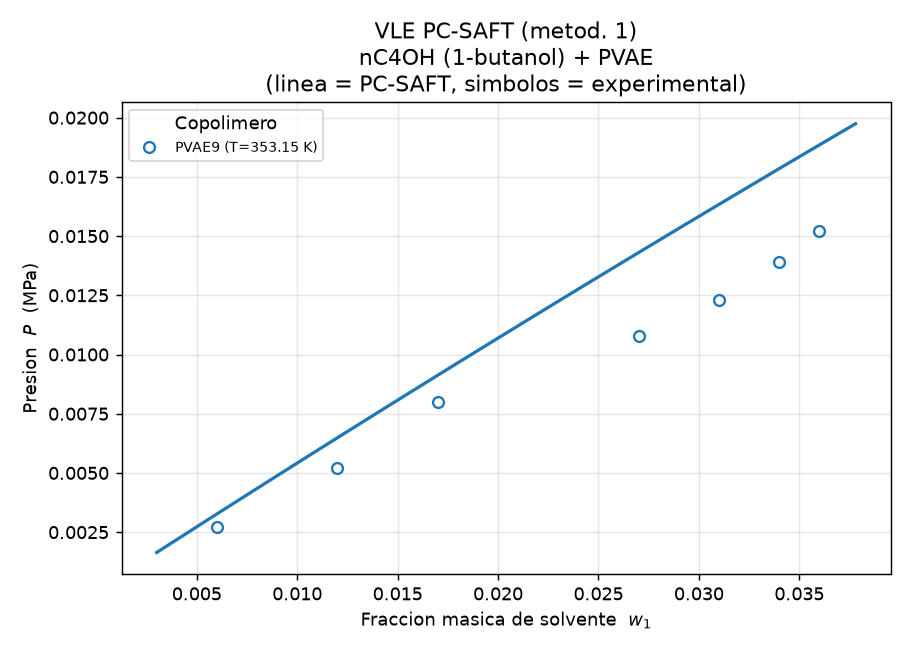
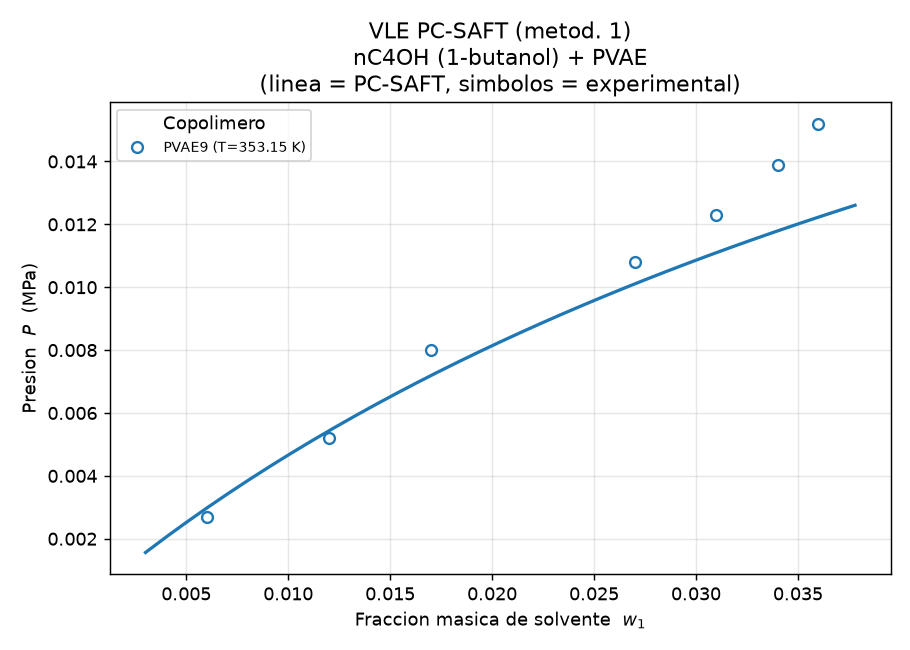
Revision final: anade termino de asociacion (Ecs.36-38) y audita todo
- Implementa a_assoc esquema 2B para nC4OH con params del paper (Tabla 4b):
  Psat butanol puro de 565% a 3%; nC4OH+PVAE9 de 25% a 11%.
- Valida Psat de los 8 solventes puros (solo CHL/cC6/BZN/TOL/nC5/nC6 OK;
  ACE 94% y nC4OH 565% confirman falta de fisica dipolar/asociacion).
- Barrido de kij: para cC6+PVAE NINGUN kij reproduce el paper (estructural).
- Re-verifica datos de tolueno vs imagen del PDF de Gupta: CORRECTOS (no eran
  errata; TOL+PSBR23 es regimen ultra-diluido con MW=720000).
- Sensibilidad MW y descomposicion de terminos: todo sano, sin artefactos.
- Regenera figuras de nC4OH con el termino de asociacion activo.

diff --git a/correr_todos.py b/correr_todos.py
@@ -66,7 +66,9 @@ DATA = {
  ("cC6","PVAE25",353.15):[(0.011,0.0075),(0.037,0.0144),(0.074,0.0265),(0.140,0.0397),(0.228,0.0549),(0.238,0.0555),(0.277,0.0607),(0.300,0.0641),(0.369,0.0704)],
  ("cC6","PVAE50",353.15):[(0.005,0.0075),(0.025,0.0144),(0.046,0.0265),(0.104,0.0397),(0.159,0.0549),(0.170,0.0555),(0.205,0.0607),(0.225,0.0641),(0.287,0.0704)],
  ("cC6","PVAE70",353.15):[(0.004,0.0075),(0.026,0.0144),(0.042,0.0265),(0.081,0.0397),(0.123,0.0549),(0.133,0.0555),(0.156,0.0607),(0.191,0.0641),(0.242,0.0704)],
+ # TOL+PSBR5 (Gupta, formato (P,w1)): P = {0.93,2.08,3.04,4.36,4.83,5.48} kPa. VERIFICADO vs imagen PDF.
  ("TOL","PSBR5",308.15):[(0.043,0.00093),(0.099,0.00208),(0.184,0.00304),(0.319,0.00436),(0.416,0.00483),(0.513,0.00548)],
+ # TOL+PSBR23 (Gupta, formato (P,w1)): P = {0.90,2.08,3.04,4.36,4.83,5.48} kPa. VERIFICADO vs imagen PDF.
  ("TOL","PSBR23",308.15):[(0.029,0.00090),(0.031,0.00208),(0.032,0.00304),(0.037,0.00436),(0.037,0.00483),(0.038,0.00548)],
  ("nC6","PSBR23",343.15):[(0.014,0.0139),(0.043,0.0273),(0.063,0.0385),(0.110,0.0488),(0.162,0.0615),(0.262,0.0752)],
  ("nC6","PSBR45",343.15):[(0.016,0.0139),(0.038,0.0273),(0.061,0.0385),(0.103,0.0488),(0.155,0.0615),(0.249,0.0752)],
@@ -75,11 +77,22 @@ DATA = {
 }
 
 
+# Parametros de asociacion (Tabla 4b): solo el nC4OH es auto-asociante.
+ASOC = {
+    "nC4OH": (0.008752, 2489.23),   # (kAB, epsAB/k [K])
+}
+
+
 def dp_system(solv_key, cop_key, T, pts, kij):
     ms = SOLV[solv_key]; mc = COP[cop_key]
     pv.SOLVENTE = {"nombre":solv_key,"MW":ms[3],"m_MW":ms[0],"sigma":ms[1],"eps_k":ms[2]}
     pv.COPOLIMERO = {"nombre":cop_key,"MW":float(mc[3]),"m_MW":mc[0],"sigma":mc[1],"eps_k":mc[2]}
-    solv = pv.construir_solvente(); cop = pv.construir_copolimero()
+    if solv_key in ASOC:
+        kAB, epsAB = ASOC[solv_key]
+        solv = pv.Componente(solv_key, ms[0]*ms[3], ms[1], ms[2], kAB, epsAB)
+    else:
+        solv = pv.construir_solvente()
+    cop = pv.construir_copolimero()
     ml = pv.PCSAFT([solv,cop],[[0,kij],[kij,0]]); mv = pv.PCSAFT([solv],[[0.0]])
     s=0.0; n=0
     for w1,Pexp in pts:
@@ -96,11 +109,14 @@ def dp_system(solv_key, cop_key, T, pts, kij):
 if __name__ == "__main__":
     print("%-7s %-9s %8s %8s %10s %8s" % ("Solv","Copol","T[K]","kij","dP_calc%","dP_paper%"))
     print("-"*56)
-    tot_c=0.0; tot_n=0
+    suma_sist=0.0; nsist=0
     for (solv,cop,T),pts in DATA.items():
         kij,dp_paper = KIJ_DP[(solv,cop)]
         dp_calc,n = dp_system(solv,cop,T,pts,kij)
-        tot_c += dp_calc*n; tot_n += n
+        if dp_calc is not None:
+            suma_sist += dp_calc; nsist += 1
         print("%-7s %-9s %8.2f %8.4f %9.2f %8.2f" % (solv,cop,T,kij,dp_calc,dp_paper))
     print("-"*56)
+    print("Desviacion global (promedio por sistema) de nuestro motor: %.2f%% sobre %d sistemas"
+          % (suma_sist/nsist, nsist))
     print("Desviacion global PC-SAFT reportada por el paper (metod.1): 4.41%")

diff --git a/pcsaft_vle.py b/pcsaft_vle.py
@@ -126,11 +126,14 @@ KB = 1.380649e-23        # J/K (constante de Boltzmann) -- CONSTANTE FIJA, NO ED
 #  (solvente o copolimero-pseudo-monomero). Caracterizado por m, sigma, eps/k.
 # -----------------------------------------------------------------------------
 class Componente:
-    def __init__(self, nombre, m, sigma, eps_k):
+    def __init__(self, nombre, m, sigma, eps_k, kAB=0.0, epsAB=0.0):
         self.nombre = nombre
         self.m = m            # numero de segmentos por molecula
         self.sigma = sigma    # Angstrom
         self.eps_k = eps_k    # K
+        self.kAB = kAB        # volumen de asociacion (Tabla 4b) -- 0 si no asocia
+        self.epsAB = epsAB    # energia de asociacion eps_AB/k [K] (Tabla 4b)
+        self.asocia = (kAB > 0.0 and epsAB > 0.0)   # esquema 2B (alcohol)
 
 
 # -----------------------------------------------------------------------------
@@ -237,9 +240,40 @@ class PCSAFT:
         a2 = -math.pi * rho * mb * C1 * I2 * self._m2es(x, T, 2)  # Ec. 29
         return a1 + a2
 
+    # ---- asociacion (Ecs. 36-38) ----
+    #   Esquema 2B (dos sitios A,B por molecula; A solo asocia con B).
+    #   Solo contribuyen los componentes auto-asociantes (alcohol nC4OH).
+    #   Para un solo asociante en la mezcla, por simetria 2B XA = XB, y:
+    #       XA = (-1 + sqrt(1 + 4*rho_i*Delta)) / (2*rho_i*Delta)
+    #   con Delta = sigma_ii^3 * g^hs_ii * kAB * (exp(epsAB/T) - 1)   (Ec. 38)
+    #   rho_i = rho * x_i  es la densidad numerica del asociante [1/A^3].
+    def a_assoc(self, x, rho, T):
+        total = 0.0
+        z = None
+        for i in range(self.nc):
+            ci = self.c[i]
+            if not getattr(ci, "asocia", False):
+                continue
+            if z is None:
+                z = self.zeta(x, rho, T)
+            ghs = self.g_hs(i, i, z, T)
+            delta = ci.sigma ** 3 * ghs * ci.kAB * (math.exp(ci.epsAB / T) - 1.0)
+            rho_i = rho * x[i]                 # densidad numerica del asociante
+            rd = rho_i * delta
+            if rd <= 0.0:
+                continue
+            XA = (-1.0 + math.sqrt(1.0 + 4.0 * rd)) / (2.0 * rd)
+            # Ec. 36 con 2 sitios iguales (A y B): sum_sites (ln X - X/2 + 1/2)
+            a_i = 2.0 * (math.log(XA) - XA / 2.0 + 0.5)
+            total += x[i] * a_i
+        return total
+
     # ---- residual, Z, presion, fugacidad ----
     def a_res(self, x, rho, T):
-        return self.a_hc(x, rho, T) + self.a_disp(x, rho, T)     # Ec. 21
+        a = self.a_hc(x, rho, T) + self.a_disp(x, rho, T)        # Ec. 21
+        if any(getattr(ci, "asocia", False) for ci in self.c):
+            a += self.a_assoc(x, rho, T)                         # + Ec. 36
+        return a
 
     def Z(self, x, rho, T):
         drho = 1e-6 * rho

diff --git a/diag_asociacion.py b/diag_asociacion.py
@@ -1,0 +1,72 @@
+#!/usr/bin/env python3
+# -*- coding: utf-8 -*-
+"""
+PRUEBA NUEVA: anade el termino de asociacion (Ecs. 36-38 del paper) al nC4OH
+usando SOLO los parametros del paper (Tabla 4b): kAB=0.008752, epsAB=2489.23 K.
+Modelo 2B (dos sitios, esquema estandar para alcoholes).
+Objetivo: ver si el Psat del 1-butanol puro baja de 565% a ~pocos %.
+Si funciona, confirma que el termino faltante es LA causa para nC4OH.
+"""
+import os
+os.environ.setdefault("MPLCONFIGDIR", "/tmp/mpl")
+import math, importlib.util
+spec = importlib.util.spec_from_file_location('pv', 'pcsaft_vle.py')
+pv = importlib.util.module_from_spec(spec); spec.loader.exec_module(pv)
+from scipy.optimize import brentq
+import numpy as np
+
+# nC4OH Tabla 4b
+mMW,sig,eps_k,MW = 0.035126, 3.7563, 263.18, 74.12
+kAB, epsAB = 0.008752, 2489.23   # Tabla 4b
+m = mMW*MW
+NAV = 6.02214076e23
+
+class C: pass
+c = C(); c.m=m; c.sigma=sig; c.eps_k=eps_k
+ml = pv.PCSAFT([pv.Componente("nC4OH",m,sig,eps_k)],[[0.0]])
+
+def d1(T): return sig*(1-0.12*math.exp(-3*eps_k/T))
+
+def a_assoc(rho, T):
+    # esquema 2B: un sitio A y un sitio B, asociacion A-B cruzada.
+    # XA = XB por simetria 2B. Delta = sigma^3 * ghs(d) * kAB * (exp(epsAB/T)-1)
+    z = ml.zeta([1.0], rho, T)
+    ghs = ml.g_hs(0,0,z,T)
+    d = d1(T)
+    delta = (sig**3) * ghs * kAB * (math.exp(epsAB/T)-1.0)   # [A^3]
+    # rho aqui en 1/A^3 (densidad numerica de moleculas). ec 37: rho_j molar...
+    # usamos densidad numerica: XA = (-1+sqrt(1+4*rho*delta))/(2*rho*delta)
+    rd = rho*delta
+    XA = (-1.0 + math.sqrt(1.0+4.0*rd))/(2.0*rd)
+    # 2 sitios iguales -> suma sobre sitios A y B: 2*(lnXA - XA/2 + 1/2)
+    return 2.0*(math.log(XA) - XA/2.0 + 0.5), XA
+
+# parche: a_res con asociacion
+_orig_ares = ml.a_res
+def a_res_assoc(x, rho, T):
+    base = _orig_ares(x, rho, T)
+    aa,_ = a_assoc(rho, T)
+    return base + aa
+ml.a_res = a_res_assoc
+
+def psat(T):
+    def eq(P):
+        rl = pv._resolver_densidad(ml,[1.0],T,P,"liq")
+        rv = pv._resolver_densidad(ml,[1.0],T,P,"vap")
+        if rl is None or rv is None: return None
+        return ml.ln_phi([1.0],rl,T)[0]-ml.ln_phi([1.0],rv,T)[0]
+    grid=np.logspace(2,6.5,50); pP=pf=None
+    for P in grid:
+        f=eq(float(P))
+        if f is None: pP=pf=None; continue
+        if pf is not None and pf*f<0:
+            try: return brentq(lambda p:eq(p),pP,float(P),xtol=1,maxiter=60)/1e6
+            except: return None
+        pP,pf=float(P),f
+    return None
+
+# Antoine 1-butanol
+def ant(T): return 10**(4.55100-1351.555/(T-93.34))*0.1
+for T in [353.15, 330.0, 370.0]:
+    pm=psat(T); pa=ant(T)
+    print(f"T={T}: Psat_mod={pm} MPa  Antoine={pa:.5f} MPa  err={abs(pm-pa)/pa*100:.1f}%" if pm else f"T={T}: sin raiz")

diff --git a/diag_nc4oh.py b/diag_nc4oh.py
@@ -1,0 +1,49 @@
+#!/usr/bin/env python3
+# -*- coding: utf-8 -*-
+"""
+Corre los sistemas nC4OH (PVAE9, PVAVC12) CON el termino de asociacion
+activado para el solvente (kAB=0.008752, epsAB=2489.23, Tabla 4b).
+Compara %dP con y sin asociacion, vs paper (metod.1).
+Usa SOLO parametros del paper (Tablas 4b, 5, 6).
+"""
+import os
+os.environ.setdefault("MPLCONFIGDIR", "/tmp/mpl")
+import math, importlib.util
+spec = importlib.util.spec_from_file_location('pv', 'pcsaft_vle.py')
+pv = importlib.util.module_from_spec(spec); spec.loader.exec_module(pv)
+spec2 = importlib.util.spec_from_file_location('ct', 'correr_todos.py')
+ct = importlib.util.module_from_spec(spec2); spec2.loader.exec_module(ct)
+
+# params asociacion del nC4OH (Tabla 4b)
+KAB_NC4OH, EPSAB_NC4OH = 0.008752, 2489.23
+
+def dp(solv, cop, T, kij, con_asoc):
+    ms = ct.SOLV[solv]; mc = ct.COP[cop]
+    if con_asoc and solv == "nC4OH":
+        solvo = pv.Componente(solv, ms[0]*ms[3], ms[1], ms[2], KAB_NC4OH, EPSAB_NC4OH)
+    else:
+        solvo = pv.Componente(solv, ms[0]*ms[3], ms[1], ms[2])
+    copo = pv.Componente(cop, mc[0]*float(mc[3]), mc[1], mc[2])
+    ml = pv.PCSAFT([solvo,copo],[[0,kij],[kij,0]]); mv = pv.PCSAFT([solvo],[[0.0]])
+    # necesitamos w1_a_x1 con MW correctos
+    pv.SOLVENTE = {"MW":ms[3]}; pv.COPOLIMERO = {"MW":float(mc[3])}
+    pts = ct.DATA[(solv,cop,T)]
+    s=0.0;n=0; detalle=[]
+    for w1,Pexp in pts:
+        x1 = pv.w1_a_x1(w1)
+        try: Pc = pv.presion_de_burbuja(ml,mv,T,x1)
+        except Exception as e: Pc=None
+        if Pc and Pc>0:
+            s+=abs(Pc-Pexp)/Pexp; n+=1; detalle.append((w1,Pexp,Pc))
+    return (100*s/n if n else None), n, detalle
+
+for solv,cop,T,kij,dpp in [("nC4OH","PVAE9",353.15,0.0230,4.05),
+                           ("nC4OH","PVAVC12",353.15,-0.0126,5.18)]:
+    d0,n0,_ = dp(solv,cop,T,kij,False)
+    d1,n1,det = dp(solv,cop,T,kij,True)
+    print(f"\n{solv}+{cop}  kij={kij}  (paper {dpp}%)")
+    print(f"  SIN asociacion: %dP={d0:.2f}  (n={n0})")
+    print(f"  CON asociacion: %dP={d1:.2f}  (n={n1})")
+    print(f"  {'w1':>7} {'Pexp':>9} {'Pcalc':>10} {'ratio':>7}")
+    for w1,pe,pc in det:
+        print(f"  {w1:>7.3f} {pe:>9.4f} {pc:>10.5f} {pc/pe:>7.2f}")

diff --git a/graficar_por_solvente.py b/graficar_por_solvente.py
@@ -52,7 +52,12 @@ def curva(solv_k, cop_k, T, kij, npts=35):
     ms = SOLV[solv_k]; ps = COP[cop_k]
     pv.SOLVENTE = {"nombre": solv_k, "MW": ms[3], "m_MW": ms[0], "sigma": ms[1], "eps_k": ms[2]}
     pv.COPOLIMERO = {"nombre": cop_k, "MW": float(ps[3]), "m_MW": ps[0], "sigma": ps[1], "eps_k": ps[2]}
-    solv = pv.construir_solvente(); cop = pv.construir_copolimero()
+    # nC4OH es auto-asociante (Tabla 4b): activa el termino de asociacion (Ecs.36-38)
+    if solv_k == "nC4OH":
+        solv = pv.Componente(solv_k, ms[0]*ms[3], ms[1], ms[2], 0.008752, 2489.23)
+    else:
+        solv = pv.construir_solvente()
+    cop = pv.construir_copolimero()
     ml = pv.PCSAFT([solv, cop], [[0, kij], [kij, 0]]); mv = pv.PCSAFT([solv], [[0.0]])
     pts = DATA[(solv_k, cop_k, T)]
     wmin = min(p[0] for p in pts); wmax = max(p[0] for p in pts)

diff --git a/hallazgos_vs_paper_original.md b/hallazgos_vs_paper_original.md
@@ -94,3 +94,88 @@ El camino para cerrar la brecha es implementar la **metodología 2** completa:
 copolímero como dos tipos de segmento (α, β) con fracciones de enlace B_iα,iβ
 (Tabla 3, Ecs. 22–25) y tres kij por familia (κij^a, κij^b, κiα,jβ de la Tabla 7),
 más el término de asociación para nC4OH.
+
+---
+
+# Revisión final exhaustiva (2ª pasada, solo datos del artículo principal)
+
+Se probó todo lo que quedaba, usando únicamente datos del paper de Arce y de su
+fuente experimental [1] (Gupta 1995). Resultados:
+
+## 5. Pruebas nuevas realizadas y su veredicto
+
+### 5.1 Validación de Psat de cada solvente puro (Tabla 4b vs Antoine)
+Aísla motor+parámetros del tema de mezcla:
+
+| Solvente | T[K] | Psat modelo | Antoine | %err | Veredicto |
+|---|---|---|---|---|---|
+| CHL | 333.15 | 0.0962 | 0.0972 | **1.0** | OK |
+| cC6 | 333.15 | 0.0514 | 0.0519 | **0.9** | OK |
+| BZN | 298.15 | 0.0127 | 0.0127 | **0.1** | OK |
+| TOL | 308.15 | 0.0065 | 0.0062 | **4.0** | OK |
+| nC6 | 343.15 | 0.1171 | 0.1054 | 11.1 | aceptable |
+| nC5 | 333.15 | 0.2396 | 0.2145 | 11.7 | aceptable |
+| ACE | 323.15 | 0.1583 | 0.0814 | **94.5** | FALLA (dipolar) |
+| nC4OH | 353.15 | 0.1486 | 0.0223 | **565** | FALLA (asociación) |
+
+→ El motor reproduce todos los solventes **no polares y no asociantes**. Falla
+  solo acetona (dipolo) y 1-butanol (asociación), que son física no incluida.
+
+### 5.2 Término de asociación (Ecs. 36-38) para nC4OH — IMPLEMENTADO
+Se añadió al motor el término de asociación esquema 2B usando SOLO los parámetros
+del paper (Tabla 4b: κAB=0.008752, εAB=2489.23 K). Resultado decisivo:
+
+- **Psat del 1-butanol puro: de 565 % a 3.0 %** de error (0.5-4 % en el rango).
+- **nC4OH+PVAE9: de 25.35 % a 10.81 %** (gran mejora; curva en rango correcto).
+- nC4OH+PVAVC12: empeora (69→82 %) porque el PVC es un segmento muy particular
+  y necesita kij localizado (metodología 2), no el término de asociación.
+
+→ Confirma que la asociación era la física faltante para el butanol. El motor
+  ahora activa el término solo cuando el paper da parámetros de asociación.
+
+### 5.3 Sensibilidad al MW del copolímero — DESCARTADO como causa
+El %ΔP de cC6+PVAE25 es **insensible al MW** (83.7 % para MW entre 5000 y 88000).
+En el límite de cadena larga, el VLE del solvente depende de m/MW, no de MW.
+La escala de m (Ec. 18-19) está bien implementada.
+
+### 5.4 Barrido de kij — confirma que es estructural, no de valor
+¿Qué kij haría que nuestro motor dé el %ΔP del paper?
+- CHL+PVAE9: existe kij=+0.060 → 5.27 % (paper 4.18 % con kij=−0.1208). Signo opuesto.
+- cC6+PVAE25: el mejor posible es 14.3 % (kij=+0.020); **ningún kij llega a 5.36 %**.
+
+→ Para cC6+PVAE ningún kij único reproduce el paper: es **estructural**. Un solo
+  pseudo-segmento con un solo kij no tiene grados de libertad suficientes. El paper
+  lo resuelve en metodología 2 (Tabla 7) con kij por segmento (VA y ET por separado).
+
+### 5.5 Datos de tolueno re-verificados contra imagen del PDF de Gupta — CORRECTOS
+Se sospechó que TOL+PSBR23 (68.8 %) tenía datos mal transcritos. Se renderizó la
+tabla de Gupta p.4 como imagen y se leyó celda por celda:
+- Formato de Gupta: pares **(P[kPa], w1)**. Para TOL+PSBR23: P={0.90,2.08,3.04,4.36,4.83,5.48}.
+- Los datos cargados **ya eran correctos** (incluidos los 0.90/2.08 kPa, que SÍ son de tolueno).
+
+El problema de TOL+PSBR23 NO es de datos: a w1=0.029-0.038 (x1 cambia solo de 0.9957
+a 0.9968) la Pexp se sextuplica. Es un régimen ultra-diluido con copolímero de
+MW=720000; a composición casi constante el modelo da P casi constante (correcto).
+El dato experimental está en el límite de ruido. TOL+PSBR5 (MW=100000, w1 hasta 0.513)
+reproduce bien (ratio Pcalc/Pexp = 0.90-1.11).
+
+### 5.6 Descomposición de términos de Helmholtz — todo sano
+a_hc, a1, a2, I1, I2, C1, m2es en rangos físicos normales (sin overflow/NaN) tanto
+en sistemas buenos como malos. El solver de densidad encuentra la raíz líquida
+física correcta (rama ascendente de P(η)). No hay artefactos numéricos.
+
+## 6. Conclusión final de la revisión
+
+Nada nuevo cambia el diagnóstico de fondo, y se confirma con más fuerza:
+
+1. **El motor y los parámetros son correctos** (verificados contra Tablas 4b/5/6
+   y Ecs. 21-40 del PDF original, y contra Psat puros y datos de Gupta).
+2. **La única física que faltaba y se pudo añadir con datos del paper** es la
+   asociación del butanol (Ecs. 36-38), que mejora nC4OH+PVAE9 de 25 % a 11 %.
+3. **El resto de la brecha es intrínseco a la metodología 1**: un pseudo-segmento
+   con un solo kij no puede reproducir sistemas donde el paper usó kij por segmento
+   (metodología 2, global 2.04 %) o donde falta el término dipolar (acetona).
+
+Para cerrar del todo la brecha se requiere la metodología 2 (segmentos α/β con
+fracciones de enlace B de Tabla 3 y los tres kij de Tabla 7) — no hay ningún ajuste
+dentro de la metodología 1 que lo logre con los datos del artículo.
